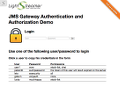
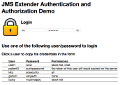
Refactoring for JMS Extender

diff --git a/src/index.html b/src/index.html
@@ -19,7 +19,7 @@
 
 <html>
   <head>
-    <title>Lightstreamer JMS Gateway Authentication and Authorization Demo</title>
+    <title>Lightstreamer JMS Extender Authentication and Authorization Demo</title>
 
     <link rel="stylesheet" type="text/css" href="css/style.css" />
     <link rel="stylesheet" type="text/css" href="css/jNotify.jquery.css" />
@@ -32,7 +32,7 @@
           <a id="logo" href="http://www.lightstreamer.com" target="_blank"><img src="images/logo.png" alt="LIGHTSTREAMER" hspace="0" border="0" /></a>
         </div>
         <div>
-          <h1>JMS Gateway Authentication and Authorization Demo</h1>
+          <h1>JMS Extender Authentication and Authorization Demo</h1>
         </div>
       </div>
 
@@ -164,8 +164,8 @@
     </div>
 
     <script src="http://cdnjs.cloudflare.com/ajax/libs/require.js/2.1.9/require.min.js"></script>
-    <script src="http://demos.lightstreamer.com/commons/lightstreamer.js"></script>
     <script src="https://code.jquery.com/jquery-2.1.1.min.js"></script>
+    <script src="http://demos.lightstreamer.com/commons/lightstreamer-widgets.js"></script>
     <script src="js/jNotify.jquery.min.js"></script>
     <script src="js/lightstreamer-jms.js"></script>
     <script src="index.js"></script>

diff --git a/src/index.js b/src/index.js
@@ -73,8 +73,8 @@ require(["js/Authentication", "js/Constants", "js/stocks_grid", "js/portfolio_gr
           $("#chat").slideDown();
           $("#logout").show();
 
-          // Now we can connect to JMS Gateway
-          ConnectionFactory.createConnection(Constants.SERVER, Constants.ADAPTER_SET, Constants.DATA_ADAPTER, user, token, {
+          // Now we can connect to JMS Extender
+          ConnectionFactory.createConnection(Constants.SERVER, Constants.JMS_CONNECTOR, user, token, {
             onConnectionCreated: function(conn) {
                 connection= conn;
 
@@ -129,7 +129,7 @@ require(["js/Authentication", "js/Constants", "js/stocks_grid", "js/portfolio_gr
                 startChat(conn);
 
             }, onConnectionFailed: function(errorCode, errorMessage) {
-                jError("Connection to JMS Gateway refused: " + errorCode + " " + errorMessage, Constants.J_NOTIFY_OPTIONS_ERR);
+                jError("Connection to JMS Extender refused: " + errorCode + " " + errorMessage, Constants.J_NOTIFY_OPTIONS_ERR);
 
                 // Hide login form, show application
                 $("#submit_form").show();

diff --git a/src/js/Authentication.js b/src/js/Authentication.js
@@ -17,7 +17,7 @@
 define(function() {
 
   // Here is the list of the user/password/token
-  // These info, excluding the password, are shared with the Metadata Adapter
+  // These info, excluding the password, are shared with the hook
   var users = {
       user1: {
         password:"wow",

diff --git a/src/js/Constants.js b/src/js/Constants.js
@@ -19,8 +19,7 @@ define(function() {
 
   return {
     SERVER: protocolToUse + "//localhost:8080",
-    ADAPTER_SET: "JMS",
-    DATA_ADAPTER: "HornetQ",
+    JMS_CONNECTOR: "HornetQ",
     PORTFOLIO_ID: "portfolio1",
     J_NOTIFY_OPTIONS_ERR: {
       autoHide : true, // added in v2.0

diff --git a/README.md b/README.md
@@ -1,9 +1,9 @@
-# Lightstreamer JMS Gateway - Authentication and Authorization Demo - HTML Client
+# Lightstreamer JMS Extender - Authentication and Authorization Demo - HTML Client
 
-The JMS Gateway Authentication and Authorization Demo is a simple example illustrating *authentication* and *authorization* mechanisms when an
+The JMS Extender Authentication and Authorization Demo is a simple example illustrating *authentication* and *authorization* mechanisms when an
 *external Web/Application Server* is involved in the process.
 
-This project includes a simple web client front-end example for the [Lightstreamer JMS Gateway - Authentication and Authorization Demo - Java Hook](https://github.com/Lightstreamer/Lightstreamer-JMS-example-Auth-hook-java).
+This project includes a simple web client front-end example for the [Lightstreamer JMS Extender - Authentication and Authorization Demo - Java Hook](https://github.com/Lightstreamer/Lightstreamer-JMS-example-Auth-hook-java).
 
 ## Screenshots
 
@@ -11,7 +11,7 @@ This project includes a simple web client front-end example for the [Lightstream
 
 ## Details
 
-This *Authentication and Authorization Demo* illustrates the typical best practice used for Lightstreamer JMS Gateway Web applications, when a Web/Application server is involved in the process.
+This *Authentication and Authorization Demo* illustrates the typical best practice used for Lightstreamer JMS Extender Web applications, when a Web/Application server is involved in the process.
 The actual authentication is usually handled by the legacy Web/Application server, irrespective of Lightstreamer.
 
 From `src/index.js`:
@@ -31,16 +31,16 @@ $.ajax({
 ```
 
 Some sort of token is sent back to the Client through cookies, response payload or any other technique.
-When the JMS Javascript Client creates the JMS connection, instead of sending again the full credentials (usually involving a password) to
-the JMS Gateway, it sends just the username and the token.
+When the JMS JavaScript Client creates the JMS connection, instead of sending again the full credentials (usually involving a password) to
+the JMS Extender, it sends just the username and the token.
 
 From `src/index.js`:
 
 ```js
 [...]
 
-// Now we can connect to JMS Gateway
-ConnectionFactory.createConnection(Constants.SERVER, Constants.ADAPTER_SET, Constants.DATA_ADAPTER,
+// Now we can connect to JMS Extender
+ConnectionFactory.createConnection(Constants.SERVER, Constants.JMS_CONNECTOR,
     user, token, {
         onConnectionCreated: function(conn) {
 
@@ -56,9 +56,9 @@ Here is an overview of the whole sequence:
 
 In this demo client the Web/Application server is not actually involved and calls to placeholder methods are performed to obtain and extract the token.
 
-Once the user is authenticated on the JMS Gateway server as explained above, the client interface opens three different panels: a stock-list panel,
-a portfolio panel and a chat panel. Each panel tries to create consumers and producers for different destination. Each time creation is requested,
-the JMS Gateway proceeds with the authorization of the request; each one of the username available im the demo is bound to a list of destinations
+Once the user is authenticated on the JMS Extender as explained above, the client interface opens three different panels: a stock-list panel,
+a portfolio panel and a chat panel. Each panel tries to create consumers and producers for different destination. Each time a creation is requested,
+the JMS Extender proceeds with the authorization of the request; each one of the username available in the demo is bound to a list of destinations
 it is authorized to view. Again the server might use an external service to verify if the received request is a valid one or not:
 more details on this are shown in the [Hook project](https://github.com/Lightstreamer/Lightstreamer-JMS-example-Auth-hook-java).
 
@@ -67,45 +67,43 @@ more details on this are shown in the [Hook project](https://github.com/Lightstr
 
 Before you can run the demo of this project some dependencies need to be solved:
 
-* Note that, as prerequisite, the following projects have to be deployed on your local Lightstreamer Server instance (running a properly configured JMS Gateway). Please check out the projects and follow the installation instructions provided with them:
-  * [Lightstreamer JMS Gateway - Stock-List Demo - Java (JMS) Service](https://github.com/Lightstreamer/Lightstreamer-JMS-example-StockList-service-java)
-  * [Lightstreamer JMS Gateway - Portfolio Demo - Java (JMS) Service](https://github.com/Lightstreamer/Lightstreamer-JMS-example-Portfolio-service-java)
-* Install the [JMS Gateway Hook](https://github.com/Lightstreamer/Lightstreamer-JMS-example-Auth-hook-java) required by this project:
-* Launch Lightstreamer Server and the two JMS demo services above.
-* Get the `lightstreamer-jms.js` file from the [Lightstreamer JMS Gateway](http://download.lightstreamer.com/#jms) and put it in the `src/js` folder of this project.
-* Lightstreamer JS client is currently hot-linked in the html page: you may want to replace it with a local version and/or to upgrade its version.
+* Note that, as prerequisite, the following projects have to be deployed on your local Lightstreamer JMS Extender instance. Please check out the projects and follow the installation instructions provided with them:
+  * [Lightstreamer JMS Extender - Stock-List Demo - Java (JMS) Service](https://github.com/Lightstreamer/Lightstreamer-JMS-example-StockList-service-java)
+  * [Lightstreamer JMS Extender - Portfolio Demo - Java (JMS) Service](https://github.com/Lightstreamer/Lightstreamer-JMS-example-Portfolio-service-java)
+* Install the [JMS Extender Hook](https://github.com/Lightstreamer/Lightstreamer-JMS-example-Auth-hook-java) required by this project.
+* Launch Lightstreamer JMS Extender and the two JMS demo services above.
+* Get the `lightstreamer-jms.js` file from the [Lightstreamer JMS Extender](http://download.lightstreamer.com/#jms) and put it in the `src/js` folder of this project.
+* [Lightstreamer visual widgets](https://github.com/Lightstreamer/Lightstreamer-lib-client-widgets-javascript), such as the status widget and dynagrid, are hot-linked in the html page: they are in no way mandatory and you may replace them with widgets from any other library by modifying `src/portfolio_grid.js`, `src/stocks_grid.js` and the `onLSClient` event in `src/index.js`.
 * RequireJS is currently hot-linked in the html page: you may want to replace it with a local version and/or to upgrade its version.
 * jQuery is currently hot-linked in the html page: you may want to replace it with a local version and/or to upgrade its version.
 
-Now, you need to configure the `src/js/Constants.js` of this example by specifying the name of the data adapter you are going to use.
-By default the demo will look for the <b>HornetQ</b> data adapter, please refer to the related services projects ([Stock-List Demo](https://github.com/Lightstreamer/Lightstreamer-JMS-example-StockList-service-java) and
+Now, you need to configure the `src/js/Constants.js` of this example by specifying the name of the JMS connector you are going to use.
+By default the demo will look for the <b>HornetQ</b> JMS connector, please refer to the related services projects ([Stock-List Demo](https://github.com/Lightstreamer/Lightstreamer-JMS-example-StockList-service-java) and
 [Portfolio Demo](https://github.com/Lightstreamer/Lightstreamer-JMS-example-Portfolio-service-java))
 for more details on the choice of a JMS broker to be used.
 
-To set the data adapter name and the connection name look where the Constants object is returned:
+To set the JMS connector name look where the Constants object is returned:
 
 ```js
 [...]
 
 return {
     SERVER: protocolToUse + "//localhost:8080",
-    ADAPTER_SET: "JMS",
-    DATA_ADAPTER: "HornetQ",
+    JMS_CONNECTOR: "HornetQ",
 
 [...]
 ```
 
-To access the demo from a web browser copy it somewhere under your root webserver directory. You can also add it to the standard Lightstreamer
-demo pages under `LightstreamerHome/pages/demos` directory by copying there the `src` folder and giving it a name such as `AuthDemo_JMS`. Subsequently
-you may access it as: <i>http://_your_lightstreamer_http_address_/demos/AuthDemo_JMS/</i>.
+To access the demo from a web browser, copy it somewhere under your webserver root directory. You can also add it to the JMS Extender internal web server pages under `JMSExtenderHome/pages` directory by copying there the `src` folder with a name such as `AuthDemo_JMS`. Subsequently you may access it as: <i>http://_your_jms_extender_http_address_/AuthDemo_JMS/</i>.
+Depending on the browser in use, and on the security settings, you might also be able to launch the index.html file directly from the file system.
 
 ## See Also
 
-### JMS Gateway Hook Needed by This Client
+### JMS Extender Hook Needed by This Client
 
-* [Lightstreamer JMS Gateway - Authentication and Authorization Demo - Java Hook](https://github.com/Lightstreamer/Lightstreamer-JMS-example-Auth-hook-java)
+* [Lightstreamer JMS Extender - Authentication and Authorization Demo - Java Hook](https://github.com/Lightstreamer/Lightstreamer-JMS-example-Auth-hook-java)
 
-## Lightstreamer Compatibility Notes
+## JMS Extender Compatibility Notes
 
-* Compatible with Lightstreamer JavaScript Client library version 6.1 or newer.
-* Compatible with Lightstreamer JMS Gateway Adapter since version 1.1.1 or newer.
+* Compatible with Lightstreamer JMS Extender Client library version 1.2 or newer.
+* Compatible with Lightstreamer JMS Extender since version 1.5 or newer.
